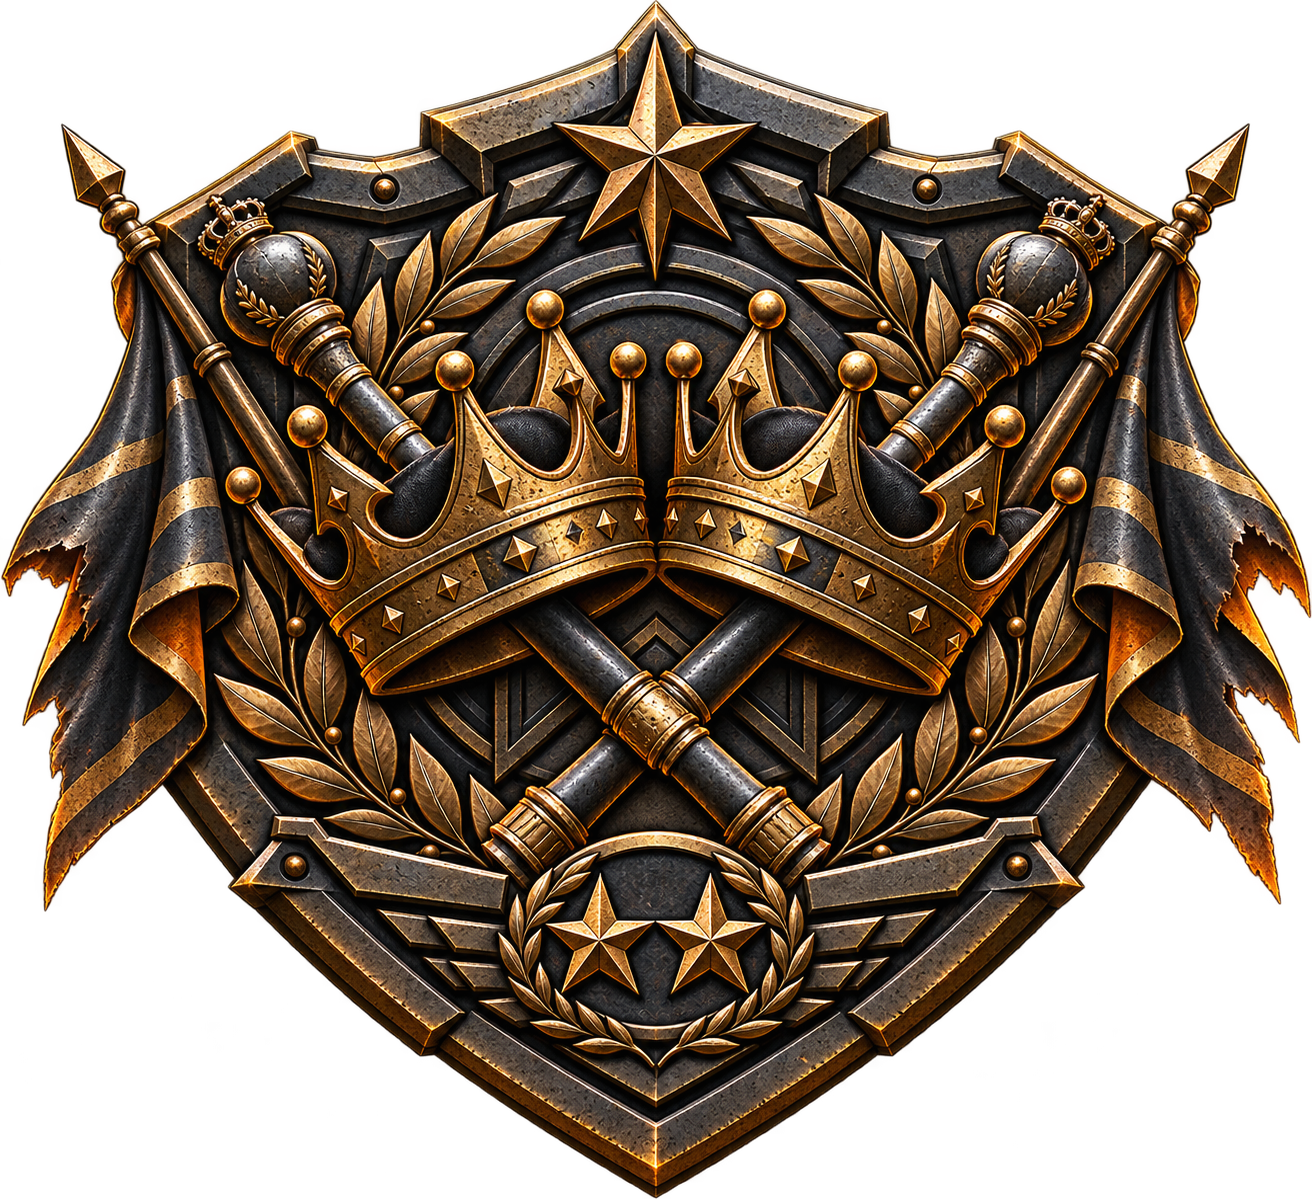
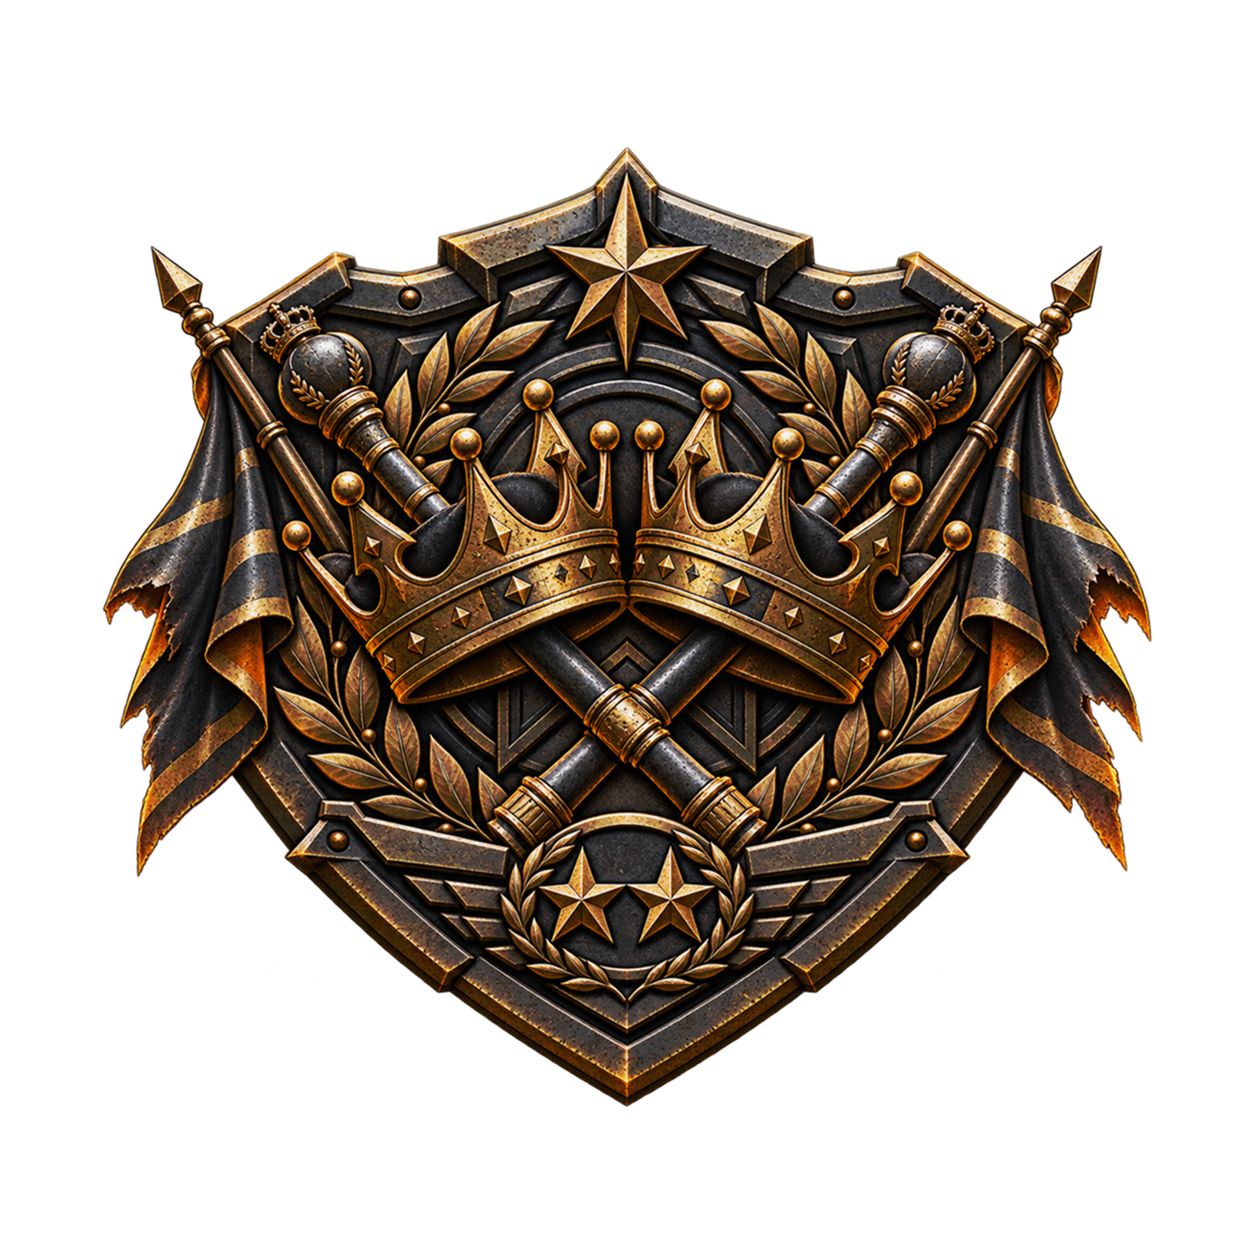
feat(badges): finalize badge artwork presentation

diff --git a/components/badges/BadgeSlot.tsx b/components/badges/BadgeSlot.tsx
@@ -59,7 +59,7 @@ export default function BadgeSlot({
           openBadge();
         }
       }}
-      className={`group relative isolate flex h-full min-h-[15.75rem] w-full cursor-pointer flex-col overflow-hidden rounded-lg border p-2.5 text-left shadow-[inset_0_1px_0_rgba(255,255,255,0.06),0_14px_30px_rgba(0,0,0,0.28)] transition hover:-translate-y-0.5 hover:border-orange-300/45 hover:shadow-[inset_0_1px_0_rgba(255,255,255,0.08),0_18px_34px_rgba(249,115,22,0.08),0_18px_34px_rgba(0,0,0,0.32)] focus-visible:outline focus-visible:outline-2 focus-visible:outline-offset-2 focus-visible:outline-orange-300 sm:p-3 ${
+      className={`group relative isolate flex h-full min-h-[22rem] w-full cursor-pointer flex-col overflow-hidden rounded-lg border p-2.5 text-left shadow-[inset_0_1px_0_rgba(255,255,255,0.06),0_14px_30px_rgba(0,0,0,0.28)] transition hover:-translate-y-0.5 hover:border-orange-300/45 hover:shadow-[inset_0_1px_0_rgba(255,255,255,0.08),0_18px_34px_rgba(249,115,22,0.08),0_18px_34px_rgba(0,0,0,0.32)] focus-visible:outline focus-visible:outline-2 focus-visible:outline-offset-2 focus-visible:outline-orange-300 sm:p-3 ${
         isEarned
           ? `${tokens.borderClassName} bg-[linear-gradient(180deg,rgba(35,29,23,0.98),rgba(12,12,13,0.98))] ring-1 ring-orange-300/16 hover:ring-orange-300/28`
           : "border-zinc-800/80 bg-[linear-gradient(180deg,rgba(28,28,31,0.96),rgba(11,11,12,0.98))] text-zinc-500"
@@ -79,10 +79,12 @@ export default function BadgeSlot({
         compact
       />
 
-      <BadgeArtwork item={item} variant="slot" className="relative z-10" />
+      <span className="relative z-10 flex h-60 shrink-0 items-center justify-center">
+        <BadgeArtwork item={item} variant="slot" className="h-full w-full" />
+      </span>
 
       <span className="relative z-10 mt-2.5 flex min-w-0 flex-1 flex-col">
-        <span className="flex items-center gap-2 text-[10px] font-black uppercase tracking-wider">
+        <span className="flex h-5 shrink-0 items-center gap-2 text-[10px] font-black uppercase tracking-wider">
           <Icon size={14} aria-hidden="true" />
           <span className={isEarned ? tokens.textClassName : "text-zinc-500"}>
             {isEarned ? "Earned" : "Locked"}
@@ -92,11 +94,11 @@ export default function BadgeSlot({
             <Sparkles size={13} className="text-orange-200" aria-hidden="true" />
           ) : null}
         </span>
-        <span className="mt-2 line-clamp-2 text-sm font-black text-white">
+        <span className="mt-2 flex h-10 shrink-0 items-start line-clamp-2 text-sm font-black text-white">
           {item.definition.name}
         </span>
         <span
-          className={`mt-auto w-fit rounded-full border px-2.5 py-1 text-[10px] font-black uppercase tracking-wider ${
+          className={`mt-auto flex min-h-7 w-fit items-center rounded-full border px-2.5 py-1 text-[10px] font-black uppercase tracking-wider ${
             isEarned
               ? tokens.badgeClassName
               : "border-white/10 bg-white/[0.03] text-zinc-500"

diff --git a/components/badges/DashboardBadgesSection.tsx b/components/badges/DashboardBadgesSection.tsx
@@ -158,15 +158,17 @@ function DashboardBadgeShowcaseCard({
           onSelect();
         }
       }}
-      className={`group flex h-full min-h-[13.5rem] w-full cursor-pointer flex-col border p-3 text-left transition hover:-translate-y-0.5 hover:border-orange-300/45 hover:bg-black/70 focus-visible:outline focus-visible:outline-2 focus-visible:outline-offset-2 focus-visible:outline-orange-300 ${
+      className={`group flex h-full min-h-[17rem] w-full cursor-pointer flex-col border p-3 text-left transition hover:-translate-y-0.5 hover:border-orange-300/45 hover:bg-black/70 focus-visible:outline focus-visible:outline-2 focus-visible:outline-offset-2 focus-visible:outline-orange-300 ${
         isEarned
           ? `${tokens.borderClassName} bg-[linear-gradient(180deg,rgba(31,26,21,0.88),rgba(7,7,8,0.94))] shadow-[0_18px_34px_rgba(0,0,0,0.25)]`
           : "border-zinc-800/80 bg-[linear-gradient(180deg,rgba(24,24,27,0.72),rgba(8,8,9,0.9))]"
       }`}
     >
-      <BadgeArtwork item={item} variant="slot" className="mx-auto max-w-32" />
+      <span className="flex h-40 shrink-0 items-center justify-center">
+        <BadgeArtwork item={item} variant="slot" className="h-full w-full max-w-32" />
+      </span>
       <span className="mt-3 flex min-w-0 flex-1 flex-col">
-        <span className="flex items-center gap-2 text-[10px] font-black uppercase tracking-wider">
+        <span className="flex h-5 shrink-0 items-center gap-2 text-[10px] font-black uppercase tracking-wider">
           <StatusIcon size={13} aria-hidden="true" />
           <span className={isEarned ? tokens.textClassName : "text-zinc-500"}>
             {isEarned ? "Earned" : "Locked"}
@@ -175,11 +177,11 @@ function DashboardBadgeShowcaseCard({
             {String(item.definition.number).padStart(2, "0")}
           </span>
         </span>
-        <span className="mt-2 line-clamp-2 text-sm font-black leading-5 text-white">
+        <span className="mt-2 flex h-10 shrink-0 items-start line-clamp-2 text-sm font-black leading-5 text-white">
           {item.definition.name}
         </span>
         <span
-          className={`mt-auto w-fit rounded-full border px-2.5 py-1 text-[10px] font-black uppercase tracking-wider ${
+          className={`mt-auto flex min-h-7 w-fit items-center rounded-full border px-2.5 py-1 text-[10px] font-black uppercase tracking-wider ${
             isEarned
               ? tokens.badgeClassName
               : "border-white/10 bg-white/[0.03] text-zinc-500"

diff --git a/tests/unit/components/BadgeFoundation.test.tsx b/tests/unit/components/BadgeFoundation.test.tsx
@@ -268,6 +268,10 @@ describe("badge foundation components", () => {
     const artworkFrame = image.closest("[data-badge-artwork]");
 
     expect(image).toHaveAttribute("src", "/assets/badges/1.png");
+    expect(image).toHaveStyle({
+      transform: "scale(1)",
+      transformOrigin: "center",
+    });
     expect(image).toHaveClass("object-contain");
     expect(image).not.toHaveClass("mix-blend-multiply");
     expect(image.className).not.toContain("bg-white");
@@ -298,6 +302,10 @@ describe("badge foundation components", () => {
     const artworkFrame = image.closest("[data-badge-artwork]");
 
     expect(image).toHaveAttribute("src", "/assets/badges/2.png");
+    expect(image).toHaveStyle({
+      transform: "scale(1.03)",
+      transformOrigin: "center",
+    });
     expect(image).toHaveClass("grayscale");
     expect(image).toHaveClass("object-contain");
     expect(image).toHaveClass("opacity-[0.8]");
@@ -460,6 +468,10 @@ describe("badge foundation components", () => {
     const artworkFrame = image.closest("[data-badge-artwork]");
 
     expect(image).toHaveAttribute("src", "/assets/badges/11.png");
+    expect(image).toHaveStyle({
+      transform: "scale(1.06)",
+      transformOrigin: "center",
+    });
     expect(image).toHaveClass("grayscale");
     expect(artworkFrame).toHaveAttribute(
       "data-badge-artwork-surface",
@@ -467,6 +479,27 @@ describe("badge foundation components", () => {
     );
     expect(artworkFrame).toHaveClass("overflow-visible");
     expect(artworkFrame).toHaveAttribute("data-badge-artwork", "real");
+  });
+
+  it("reserves layout space for the shared tall-artwork compensation", () => {
+    const tallItem = requireItemByNumber(mapBadgeCollection({ awards: [] }), 14);
+
+    render(<BadgeSlot item={tallItem} />);
+
+    const button = screen.getByRole("button", {
+      name: "Iron Streak, Rare, locked",
+    });
+    const image = within(button).getByRole("img", {
+      name: "Iron Streak badge artwork",
+    });
+    const artworkFrame = image.closest("[data-badge-artwork]");
+
+    expect(image).toHaveStyle({
+      transform: "scale(0.99)",
+      transformOrigin: "center",
+    });
+    expect(artworkFrame).toHaveClass("aspect-square");
+    expect(artworkFrame?.parentElement).toHaveClass("h-60");
   });
 
   it("keeps artwork and lock overlays from blocking card clicks", () => {

diff --git a/tests/unit/lib/badges/presentation.test.ts b/tests/unit/lib/badges/presentation.test.ts
@@ -7,6 +7,8 @@ import {
 } from "@/lib/badges/catalog";
 import {
   getBadgeArtworkAsset,
+  BADGE_VISUAL_SCALE,
+  getBadgeArtworkVisualScale,
   getBadgeAssetPath,
   getBadgeProgressSummary,
   getBadgeSlotPresentation,
@@ -51,11 +53,31 @@ describe("badge presentation mapping", () => {
     expect(getBadgeArtworkAsset(recruit!)).toEqual({
       src: "/assets/badges/1.png",
       alt: "IronClad Recruit badge artwork",
+      scale: 1,
     });
     expect(getBadgeArtworkAsset(eliteChampion!)).toEqual({
       src: "/assets/badges/26.png",
       alt: "Elite Champion badge artwork",
+      scale: 1,
     });
+  });
+
+  it("uses the centralized per-badge visual scale map", () => {
+    const standard = getBadgeDefinitionByNumber(10);
+
+    expect(getBadgeArtworkVisualScale(standard!)).toBe(1);
+    expect(BADGE_VISUAL_SCALE[8]).toBe(1);
+    expect(BADGE_VISUAL_SCALE[9]).toBe(1);
+    expect(BADGE_VISUAL_SCALE[10]).toBe(1);
+    expect(BADGE_VISUAL_SCALE[7]).toBe(1.02);
+    expect(BADGE_VISUAL_SCALE[13]).toBe(1.08);
+    expect(BADGE_VISUAL_SCALE[14]).toBe(0.99);
+    expect(BADGE_VISUAL_SCALE[24]).toBe(1.21);
+    expect(BADGE_VISUAL_SCALE[27]).toBe(1.01);
+    expect(BADGE_VISUAL_SCALE[28]).toBe(0.97);
+    expect(BADGE_VISUAL_SCALE[29]).toBe(0.97);
+    expect(BADGE_VISUAL_SCALE[30]).toBe(0.98);
+    expect(Object.keys(BADGE_VISUAL_SCALE)).toHaveLength(30);
   });
 
   it("does not generate fallback artwork for canonical badges", () => {
@@ -73,6 +95,7 @@ describe("badge presentation mapping", () => {
     expect(getBadgeArtworkAsset(fiveVictories!)).toEqual({
       src: "/assets/badges/11.png",
       alt: "Five Victories badge artwork",
+      scale: 1.06,
     });
     expect(getBadgeAssetPath(fiveVictoriesItem!)).toBe("/assets/badges/11.png");
   });

diff --git a/lib/badges/presentation.ts b/lib/badges/presentation.ts
@@ -3,6 +3,7 @@ import type {
   BadgeCollection,
   BadgeCollectionItem,
   BadgeDefinition,
+  BadgeNumber,
   BadgePresentationEntitlement,
   BadgeRarity,
   BadgeSlug,
@@ -16,6 +17,39 @@ export const BADGE_RARITY_LABELS: Record<BadgeRarity, string> = {
   rare: "Rare",
   epic: "Epic",
   legendary: "Legendary",
+};
+
+export const BADGE_VISUAL_SCALE: Record<BadgeNumber, number> = {
+  1: 1,
+  2: 1.03,
+  3: 1,
+  4: 1,
+  5: 1,
+  6: 1.03,
+  7: 1.02,
+  8: 1,
+  9: 1,
+  10: 1,
+  11: 1.06,
+  12: 0.98,
+  13: 1.08,
+  14: 0.99,
+  15: 1.09,
+  16: 0.97,
+  17: 1,
+  18: 0.99,
+  19: 1,
+  20: 1,
+  21: 0.98,
+  22: 1,
+  23: 0.98,
+  24: 1.21,
+  25: 1.04,
+  26: 1,
+  27: 1.01,
+  28: 0.97,
+  29: 0.97,
+  30: 0.98,
 };
 
 export const BADGE_RARITY_TOKENS: Record<
@@ -151,7 +185,12 @@ export function getBadgeArtworkAsset(definition: BadgeDefinition) {
   return {
     src: artworkPath,
     alt: `${definition.name} badge artwork`,
+    scale: getBadgeArtworkVisualScale(definition),
   };
+}
+
+export function getBadgeArtworkVisualScale(definition: BadgeDefinition) {
+  return BADGE_VISUAL_SCALE[definition.number];
 }
 
 export function getBadgeRarityLabel(rarity: BadgeRarity) {

diff --git a/components/badges/BadgeArtwork.tsx b/components/badges/BadgeArtwork.tsx
@@ -17,7 +17,7 @@ type BadgeArtworkVariant = "slot" | "detail" | "reveal";
 const frameClassNames: Record<BadgeArtworkVariant, string> = {
   slot: "aspect-square w-full",
   detail: "aspect-square w-full",
-  reveal: "h-48 w-48 sm:h-56 sm:w-56",
+  reveal: "aspect-square w-48 sm:w-56",
 };
 
 const imageSizes: Record<BadgeArtworkVariant, number> = {
@@ -57,6 +57,7 @@ export default function BadgeArtwork({
   const fallbackLabel = getBadgeFallbackLabel(item.definition);
   const showArtwork = Boolean(artwork && failedArtworkSrc !== artwork.src);
   const StatusIcon = isEarned ? Award : LockKeyhole;
+  const artworkScale = artwork?.scale ?? 1;
 
   return (
     <span
@@ -79,6 +80,10 @@ export default function BadgeArtwork({
                 ? "opacity-100"
                 : "opacity-[0.8] grayscale brightness-[0.94] saturate-[0.78]"
             }`}
+            style={{
+              transform: `scale(${artworkScale})`,
+              transformOrigin: "center",
+            }}
             onError={() => setFailedArtworkSrc(artwork.src)}
           />
           {!isEarned ? (

diff --git a/tests/unit/components/DashboardBadgesSection.test.tsx b/tests/unit/components/DashboardBadgesSection.test.tsx
@@ -181,7 +181,7 @@ describe("DashboardBadgesSection", () => {
     expect(list.className).not.toContain("grid-cols-10");
     expect(
       within(list).getAllByRole("button").every(
-        (button) => button.className.includes("min-h-[13.5rem]")
+        (button) => button.className.includes("min-h-[17rem]")
       )
     ).toBe(true);
   });
